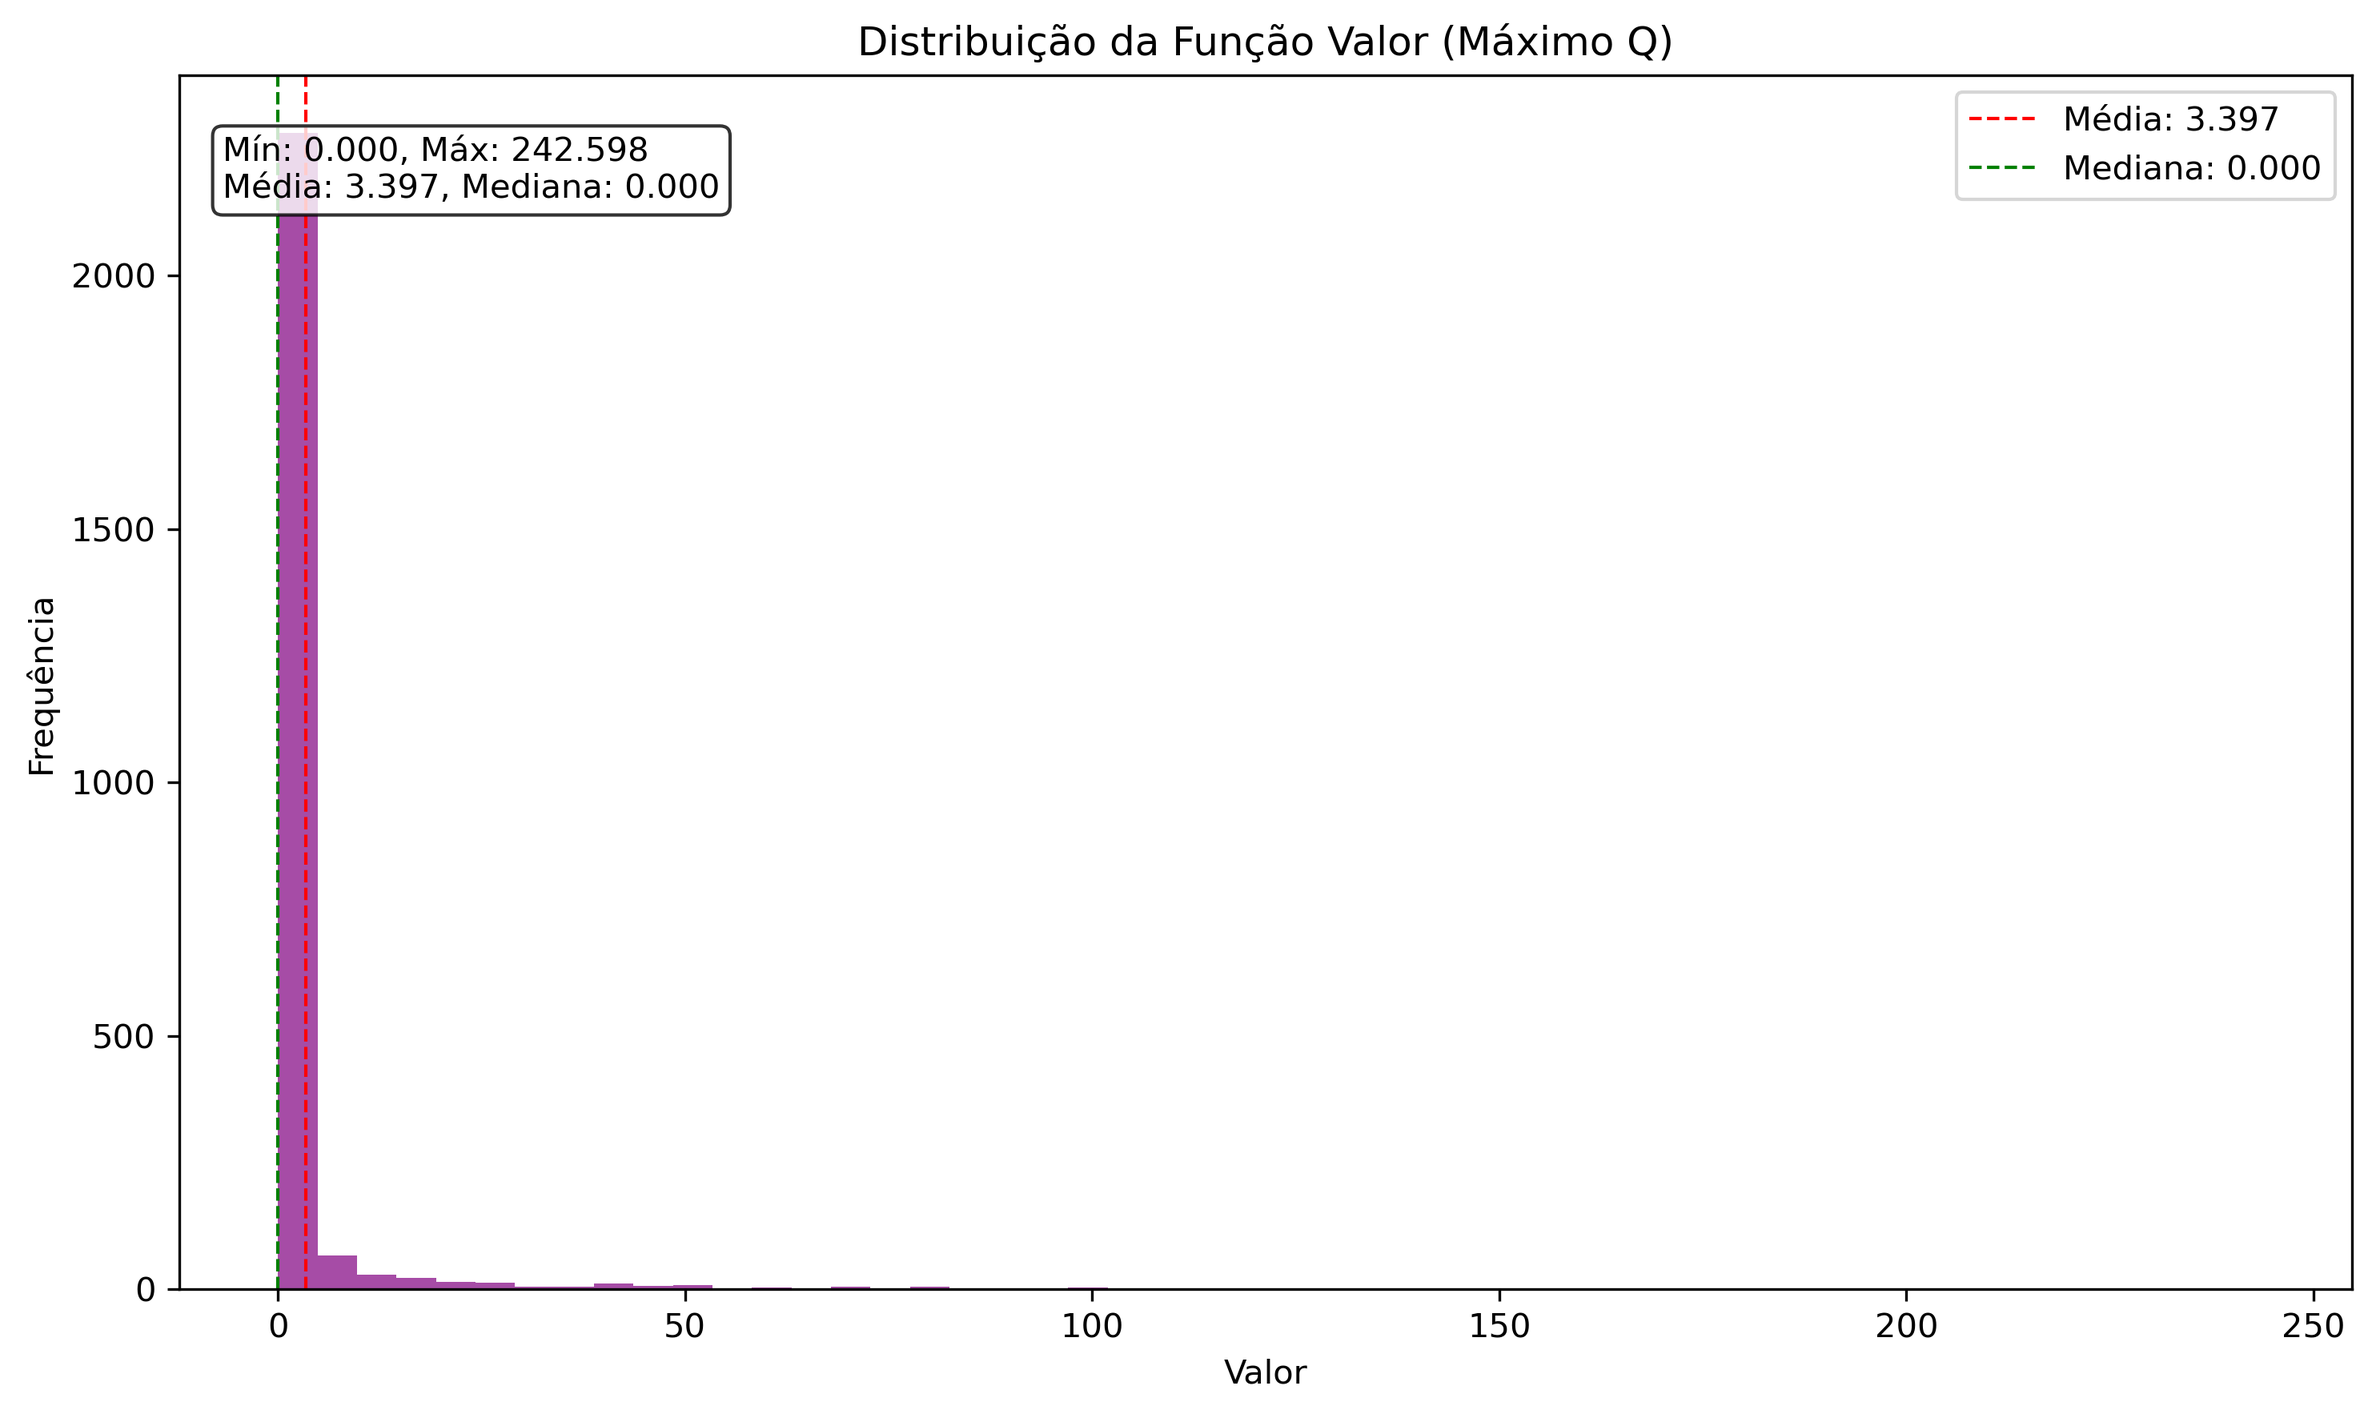
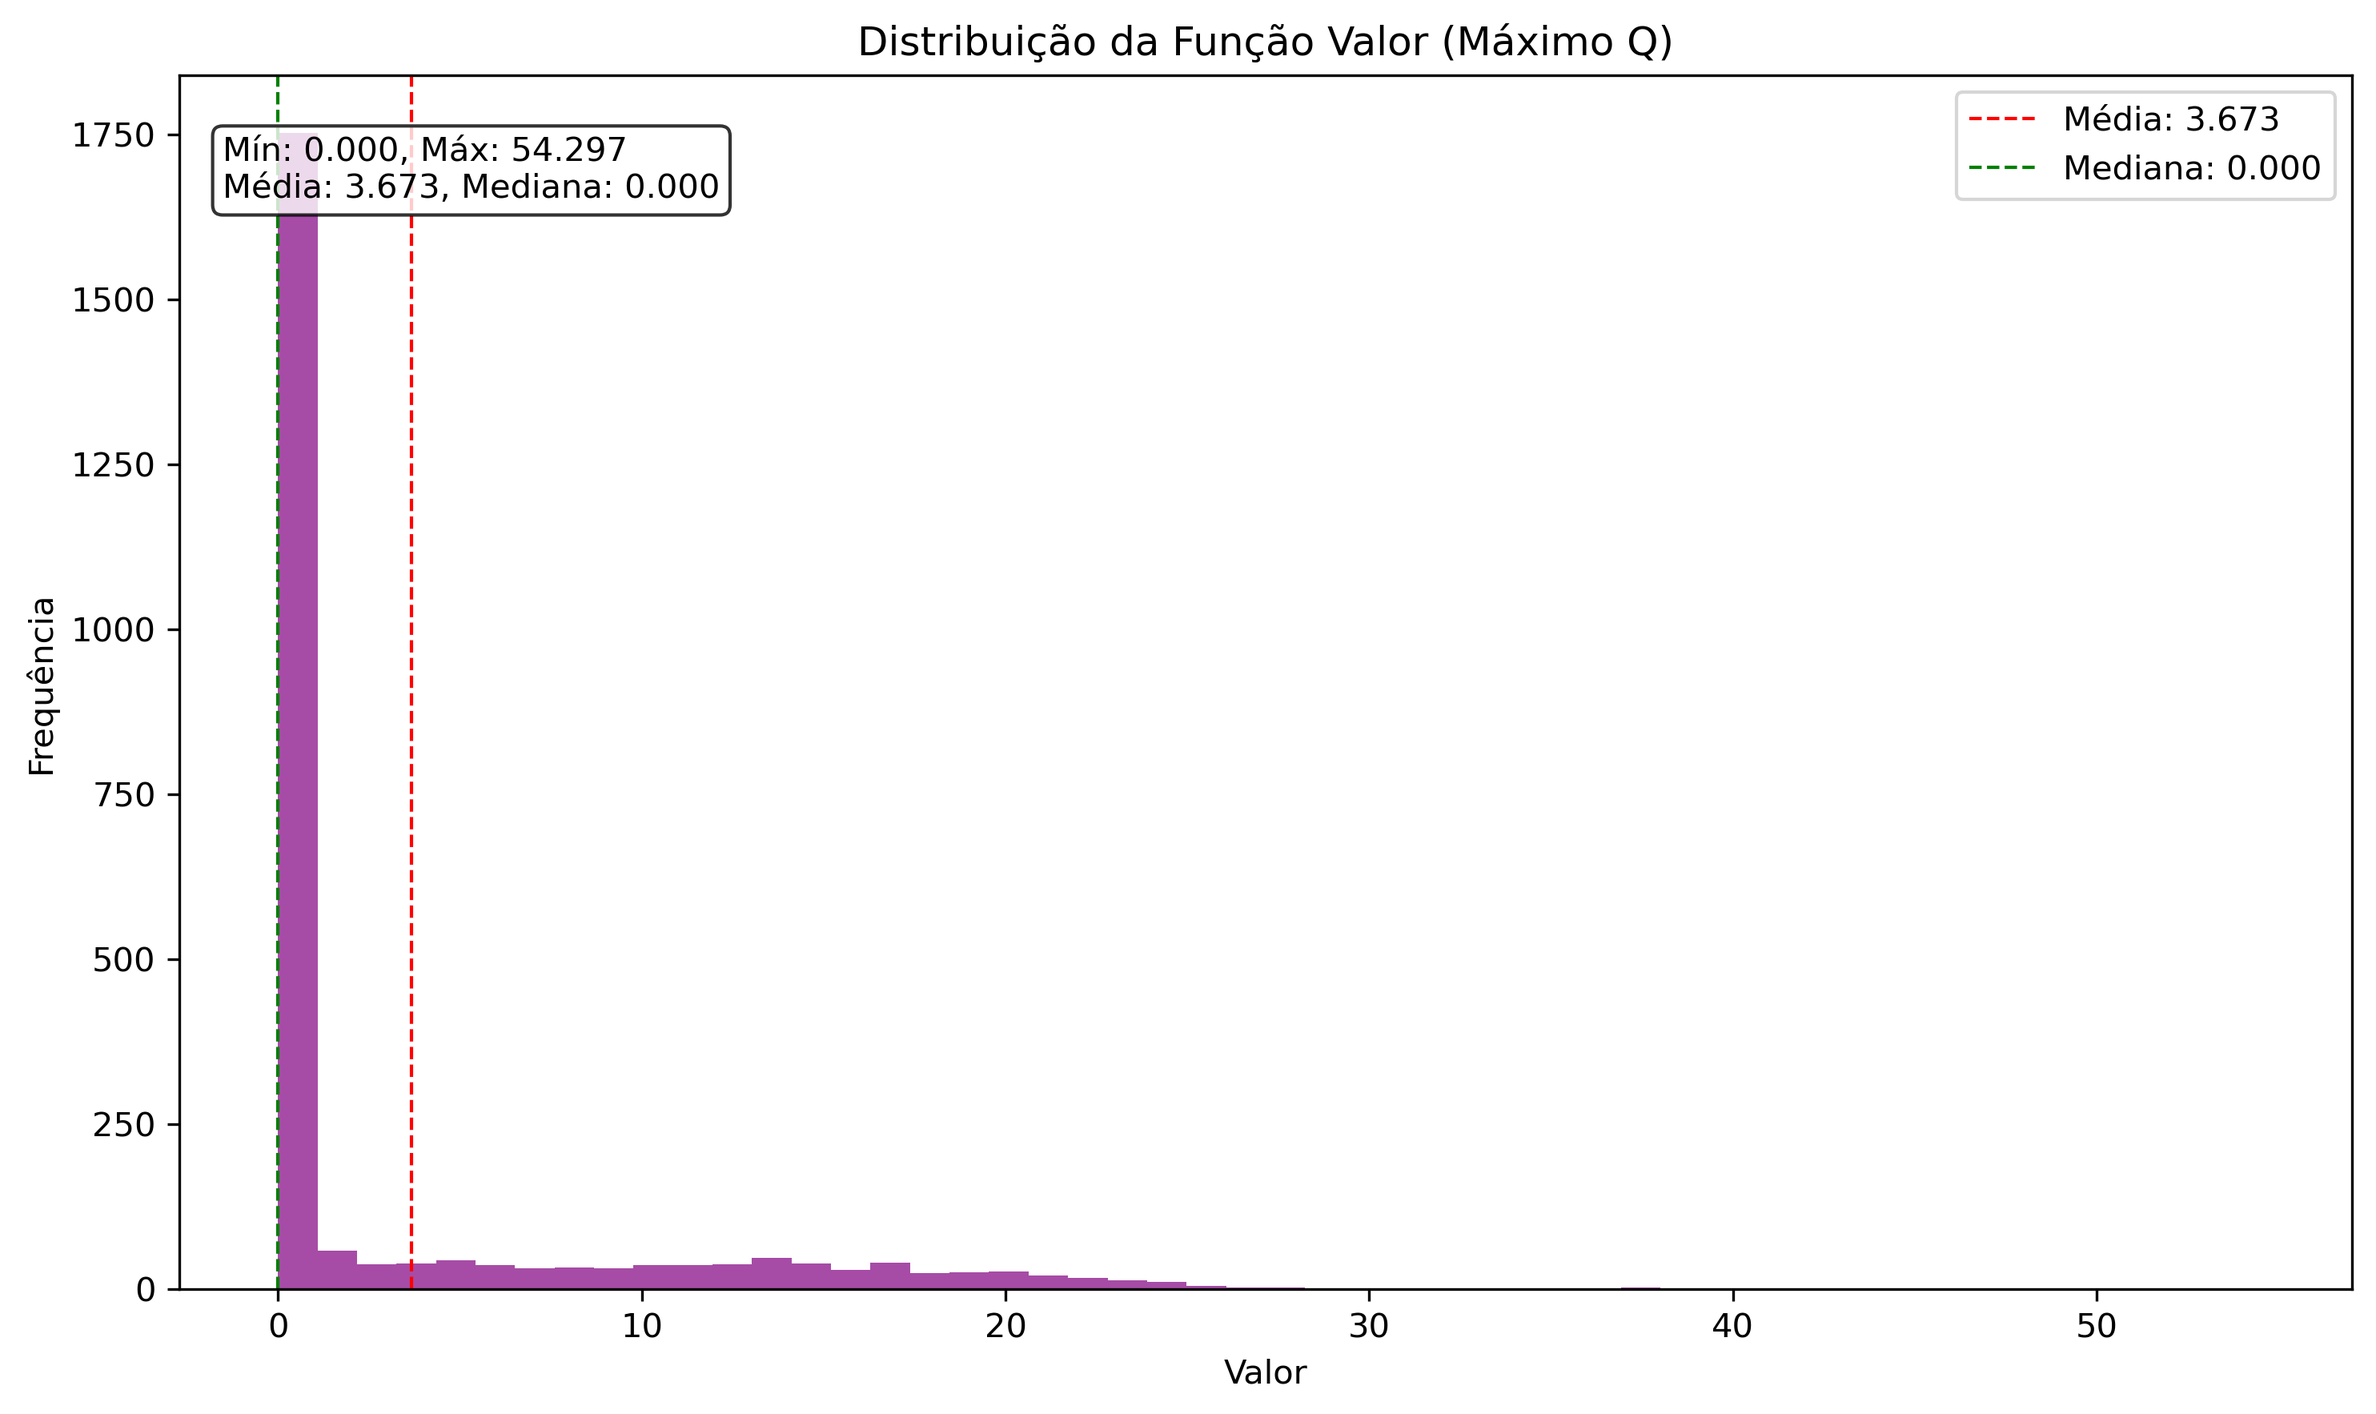
🚧

diff --git a/src/gymnasium_env/envs/clementine.py b/src/gymnasium_env/envs/clementine.py
@@ -6,13 +6,13 @@ import numpy as np
 from ...utils.get_params import ParameterHandler
 
 
-class GridWorldEnv2Resources(gym.Env):
+class ClementineEnvironment(gym.Env):
     metadata = {"render_modes": ["human", "rgb_array"], "render_fps": 4}
 
-    def __init__(self, config_path, drive_type, render_mode=None, max_homeostatic_value=300):
+    def __init__(self, config_path, drive_type, render_mode=None, size=200):
         # Window setup
         self.window_size = 800  # The size of the PyGame window
-        self.size = max_homeostatic_value
+        self.size = size
 
         # Drive setup
         self.parameter_manager = ParameterHandler(config_path)
@@ -24,25 +24,23 @@ class GridWorldEnv2Resources(gym.Env):
         self._internal_states = np.zeros(self._internal_state_size, dtype=np.float32)
 
         # Observations are dictionaries with the agent's internal states only
-        self.observation_space = spaces.Dict(
-            {
-                "internal_states": spaces.Box(0, 300, shape=(self._internal_state_size,), dtype=np.float32)
-            }
-        )
+        self.observation_space = spaces.Box(-size, size + 1, shape=(self._internal_state_size,), dtype=np.int32)
 
         # Define action space for homeostatic regulation
-        self.action_space = spaces.Discrete(3)
+        self.action_space = spaces.Discrete(5)
         """
-        0: Consume resource 0 (if available)
-        1: Consume resource 1 (if available)
-        2: Do nothing
+        0: Consume resource 0 
+        1: Consume resource 1
+        2: Not consume resource 0
+        3: Not consume resource 0
+        4: Do nothing
         """
         
         # Resource availability (changes over time)
         self._resources_available = np.ones(self._internal_state_size, dtype=bool)
         
         # Resource regeneration parameters
-        self._resource_regen_prob = 0.3  # Probability of resource regeneration per step
+        self._resource_regen_prob = 1  # Probability of resource regeneration per step
 
         assert render_mode is None or render_mode in self.metadata["render_modes"]
         self.render_mode = render_mode
@@ -69,9 +67,7 @@ class GridWorldEnv2Resources(gym.Env):
         }
 
     def _get_obs(self):
-        return {
-            "internal_states": self._internal_states
-        }
+        return self._internal_states
 
     def _get_info(self):
         return {
@@ -84,8 +80,11 @@ class GridWorldEnv2Resources(gym.Env):
         super().reset(seed=seed)
 
         # Initialize internal states with random values between 0 and 1
-        self._internal_states = np.ones(self._internal_state_size).astype(np.float32) * 100
-        
+# Modificar para garantir que _internal_states tenha o mesmo tamanho que self.drive._optimal_internal_states
+        self._internal_states = np.random.choice(
+						range(-self.size, self.size+1), 
+						size=len(self.drive._optimal_internal_states)
+				).astype(np.int32)        
         # Initial drive
         initial_drive = self.drive.compute_drive(self._internal_states)
         self.drive.update_drive(initial_drive)
@@ -106,16 +105,20 @@ class GridWorldEnv2Resources(gym.Env):
         
         # Apply the chosen action to modify internal states
         if action == 0 and self._resources_available[0]:  # Consume resource 0
-            self._internal_states[0] = np.minimum(self._internal_states[0] + self._outcome, self.size)
+            self._internal_states[0] = min(self._internal_states[0] + self._outcome, self.size)
             self._resources_available[0] = False  # Resource consumed
             resource_consumed = True
         elif action == 1 and self._resources_available[1]:  # Consume resource 1
-            self._internal_states[1] = np.minimum(self._internal_states[1] + self._outcome, self.size)
+            self._internal_states[1] = min(self._internal_states[1] + self._outcome, self.size)
             self._resources_available[1] = False  # Resource consumed
             resource_consumed = True
-        # Action 2 is do nothing, so we don't change internal states
-        decay_rate = 200  # Adjust as needed
-        self._internal_states = np.maximum(0.0, self._internal_states * (1 - 1/decay_rate))
+        elif action == 2:
+            self._internal_states[0] = max(self._internal_states[0] - 1, -self.size)
+        elif action == 3:
+            self._internal_states[1] = max(self._internal_states[1] - 1, -self.size)
+        # # Action 2 is do nothing, so we don't change internal states
+        # decay_rate = 200  # Adjust as needed
+        # self._internal_states = np.maximum(0.0, self._internal_states * (1 - 1/decay_rate))
 
         # Updates drive and reward
         new_drive = self.drive.compute_drive(self._internal_states)
@@ -133,8 +136,8 @@ class GridWorldEnv2Resources(gym.Env):
         terminated = self.drive.has_reached_optimal(self._internal_states, threshold)
         
         # # Small reward for consuming resources (optional)
-        if resource_consumed:
-            reward += 0.5
+        # if resource_consumed:
+        #     reward += 0.5
             
         # Big reward if reached optimal internal state
         if terminated:

diff --git a/src/agents/q_learning.py b/src/agents/q_learning.py
@@ -17,7 +17,7 @@ class QLearning:
         q_table (np.ndarray): Q-table to store Q-values for state-action pairs
     """
     
-    def __init__(self, state_size, action_size, learning_rate=0.1, discount_factor=0.99,
+    def __init__(self, env, state_size, action_size, learning_rate=0.1, discount_factor=0.99,
                  epsilon=1.0, epsilon_min=0.01, epsilon_decay=0.995, n_bins = 20):
         """
         Initializes the Q-Learning agent.
@@ -39,7 +39,7 @@ class QLearning:
         self.epsilon_min = epsilon_min
         self.epsilon_decay = epsilon_decay
         self.n_bins = n_bins
-        
+        self.size = env.size
         # Initialize Q-table with zeros
         self.q_table = np.zeros((state_size, action_size))
         
@@ -57,36 +57,22 @@ class QLearning:
         return epsilon_greedy_policy(q_values, self.epsilon)
     
     def update_q_table(self, state, action, reward, next_state, done):
-        """
-        Updates the Q-table using the Bellman equation.
+        # Converte os estados para índices
+        state_idx = self._process_state(state)
+        next_state_idx = self._process_state(next_state)
         
-        Args:
-            state (int): Current state
-            action (int): Action taken
-            reward (float): Reward received
-            next_state (int): Next state
-            done (bool): Indicates if the episode is finished
-            
-        Returns:
-            float: Value of the error (difference between old and new value)
-        """
-        # Current Q-value for the state-action pair
-        current_q = self.q_table[state, action]
+        # Calcula o Q-value atual
+        current_q = self.q_table[state_idx, action]
         
-        # Maximum Q-value for the next state
+        # Calcula o target Q-value
         if done:
-            max_next_q = 0  # No future estimate if the episode is finished
+            target_q = reward
         else:
-            max_next_q = np.max(self.q_table[next_state])
+            max_next_q = np.max(self.q_table[next_state_idx])
+            target_q = reward + self.discount_factor * max_next_q
         
-        # Calculate the target value using the Bellman equation
-        target_q = reward + self.discount_factor * max_next_q
-        
-        # Update the Q-value
-        self.q_table[state, action] = current_q + self.learning_rate * (target_q - current_q)
-        
-        # Return the TD (Temporal Difference) error
-        return target_q - current_q
+        # Atualiza o Q-value
+        self.q_table[state_idx, action] = current_q + self.learning_rate * (target_q - current_q)
     
     def decay_epsilon(self):
         """
@@ -168,17 +154,28 @@ class QLearning:
         return rewards_per_episode
     
     def _process_state(self, state):
+        """Processa o estado para uso na tabela Q."""
         # Se for dict vindo do ambiente original
         if isinstance(state, dict) and "internal_states" in state:
-            raise ValueError("O ambiente não foi discretizado. Use o DiscretizeWrapper.")
+            state = state["internal_states"]
         
-        if isinstance(state, (list, np.ndarray)):
-            return np.ravel_multi_index(state, dims=[self.n_bins] * len(state))
-
+        if isinstance(state, np.ndarray):
+            # Discretiza cada valor do array para um valor entre 0 e n_bins-1
+            discrete_state = []
+            for i, val in enumerate(state):
+                # Normaliza o valor para o intervalo [0, n_bins-1]
+                bin_idx = int(val * (self.n_bins / self.size))
+                bin_idx = max(0, min(self.n_bins - 1, bin_idx))  # Clip para garantir limites
+                discrete_state.append(bin_idx)
+                
+            # Converte o estado multi-dimensional para um índice único
+            return np.ravel_multi_index(tuple(discrete_state), dims=[self.n_bins] * len(state))
+            
         if isinstance(state, (int, np.integer)):
+            # Se já for um índice, retorna direto
             return state
-
-        raise ValueError(f"Unsupported state format: {state}")
+            
+        raise ValueError(f"Formato de estado não suportado: {type(state)}")
 
 
 

diff --git a/src/scripts/grid_world_2_resources/experiment_qlearning.py b/src/scripts/grid_world_2_resources/experiment_qlearning.py
@@ -1,5 +1,6 @@
 import numpy as np
 from ...gymnasium_env.envs.grid_world_2_resources import GridWorldEnv2Resources
+from ...gymnasium_env.envs.clementine import ClementineEnvironment
 from ...agents.q_learning import QLearning
 from ...gymnasium_env.envs.wrappers.digitize_continuos import DiscretizeWrapper
 import pandas as pd
@@ -21,16 +22,37 @@ def evaluate_agent(agent, env, rewards, internal_state_dim=2, success_threshold=
     rewards_series = pd.Series(rewards)
     rolling_avg = rewards_series.rolling(window=10).mean()
     
-    plt.figure(figsize=(10, 5))
-    plt.plot(rewards_series, alpha=0.3, label="Raw reward")
-    plt.plot(rolling_avg, color="blue", linewidth=2, label="Moving average (10)")
-    plt.xlabel("Episodes")
-    plt.ylabel("Total reward")
-    plt.title("Q-Learning Agent Performance")
-    plt.legend()
-    plt.grid(True)
+    # RMSE from the max reward value obtained
+    max_reward = np.max(rewards)
+    mse = np.square(np.array(rewards) - max_reward).mean(axis=0)
+    mse_series = pd.Series([np.square(rewards[:i+1] - max_reward).mean() 
+                            for i in range(len(rewards))])
+    mse_rolling = mse_series.rolling(window=10).mean()
+    
+    # Plotar recompensas
+    fig, (ax1, ax2) = plt.subplots(2, 1, figsize=(10, 10), sharex=True)
+    
+    ax1.plot(rewards_series, alpha=0.3, label="Raw reward")
+    ax1.plot(rolling_avg, color="blue", linewidth=2, label="Moving average (10)")
+    ax1.set_ylabel("Total reward")
+    ax1.set_title("Q-Learning Agent Performance")
+    ax1.legend()
+    ax1.grid(True)
+    
+    # Plotar MSE
+    ax2.plot(mse_series, alpha=0.3, color="red", label="MSE")
+    ax2.plot(mse_rolling, color="darkred", linewidth=2, label="MSE Moving average (10)")
+    ax2.set_xlabel("Episodes")
+    ax2.set_ylabel("Mean Squared Error")
+    ax2.set_title(f"Error relative to max reward ({max_reward:.2f})")
+    ax2.legend()
+    ax2.grid(True)
+    
+    plt.tight_layout()
     plt.show()
-
+    
+    print(f"📊 Final MSE: {mse:.4f}")
+    
     successes = np.sum(np.array(rewards) >= success_threshold)
     success_rate = successes / len(rewards)
     print(f"✅ Success rate (reward >= {success_threshold}): {success_rate:.2%}")
@@ -84,7 +106,8 @@ low, high = 0.0, 300.0
 
 # === Create base environment ===
 config_path = "config/config.yaml"
-drive_type = "elliptic_drive"  # "base_drive", "elliptic_drive", "interoceptive_drive"
+drive_type = "base_drive"  # "base_drive", "elliptic_drive", "interoceptive_drive"
+#env = ClementineEnvironment(config_path=config_path, drive_type=drive_type, render_mode=None)
 env = GridWorldEnv2Resources(config_path=config_path, drive_type=drive_type, render_mode=None)
 
 # === Wrap with discretization ===
@@ -97,6 +120,7 @@ action_size = wrapped_env.action_space.n
 
 # === Initialize the Q-learning agent ===
 agent = QLearning(
+    env=env,
     state_size=state_size,
     action_size=action_size,
     n_bins=n_bins,
@@ -109,7 +133,7 @@ agent = QLearning(
 
 # === Train the agent ===
 num_episodes = 500
-rewards = agent.train(wrapped_env, num_episodes=num_episodes)
+rewards = agent.train(env, num_episodes=num_episodes)
 
 import pickle
 import os
@@ -129,7 +153,8 @@ with open(model_filename, 'wb') as f:
 print(f"Modelo salvo em: {model_filename}")
 
 # Continua com a avaliação
+env_eval = ClementineEnvironment(config_path=config_path, drive_type=drive_type, render_mode='human')
 env_eval = GridWorldEnv2Resources(config_path=config_path, drive_type=drive_type, render_mode='human')
 wrapped_env_eval = DiscretizeWrapper(env_eval, n_bins=n_bins, low=low, high=high)
-agent.evaluate(wrapped_env_eval, num_episodes=1, render=True)
+#agent.evaluate(wrapped_env_eval, num_episodes=1, render=True)
 evaluate_agent(agent, wrapped_env_eval, rewards, internal_state_dim=2)

diff --git a/src/scripts/grid_world_2_resources/visualize_experiment.py b/src/scripts/grid_world_2_resources/visualize_experiment.py
@@ -7,7 +7,7 @@ from src.scripts.grid_world_2_resources.visualizer import load_and_visualize_qle
 
 # === Parâmetros ===
 max_val = 300.0
-model_path = "models/qlearning_model_base_drive_n2_m2.pkl"  # Ajuste o caminho conforme necessário
+model_path = "models/qlearning_model_base_drive_n1_m1.pkl"  # Ajuste o caminho conforme necessário
 output_dir = "./visualizacoes"
 
 # === Carregar e visualizar modelo ===

diff --git a/src/scripts/grid_world_2_resources/visualizer.py b/src/scripts/grid_world_2_resources/visualizer.py
@@ -771,7 +771,7 @@ def load_and_visualize_qlearning_model(model_path, output_dir='./', env=None, ma
 
 # Exemplo de uso
 if __name__ == "__main__":
-    model_path = "model/qlearning_model_base_drive_n2_m2.pkl"
+    model_path = "model/qlearning_model_base_drive_n1_m1.pkl"
     output_dir = "./"
     
     # Carregar e visualizar o modelo
